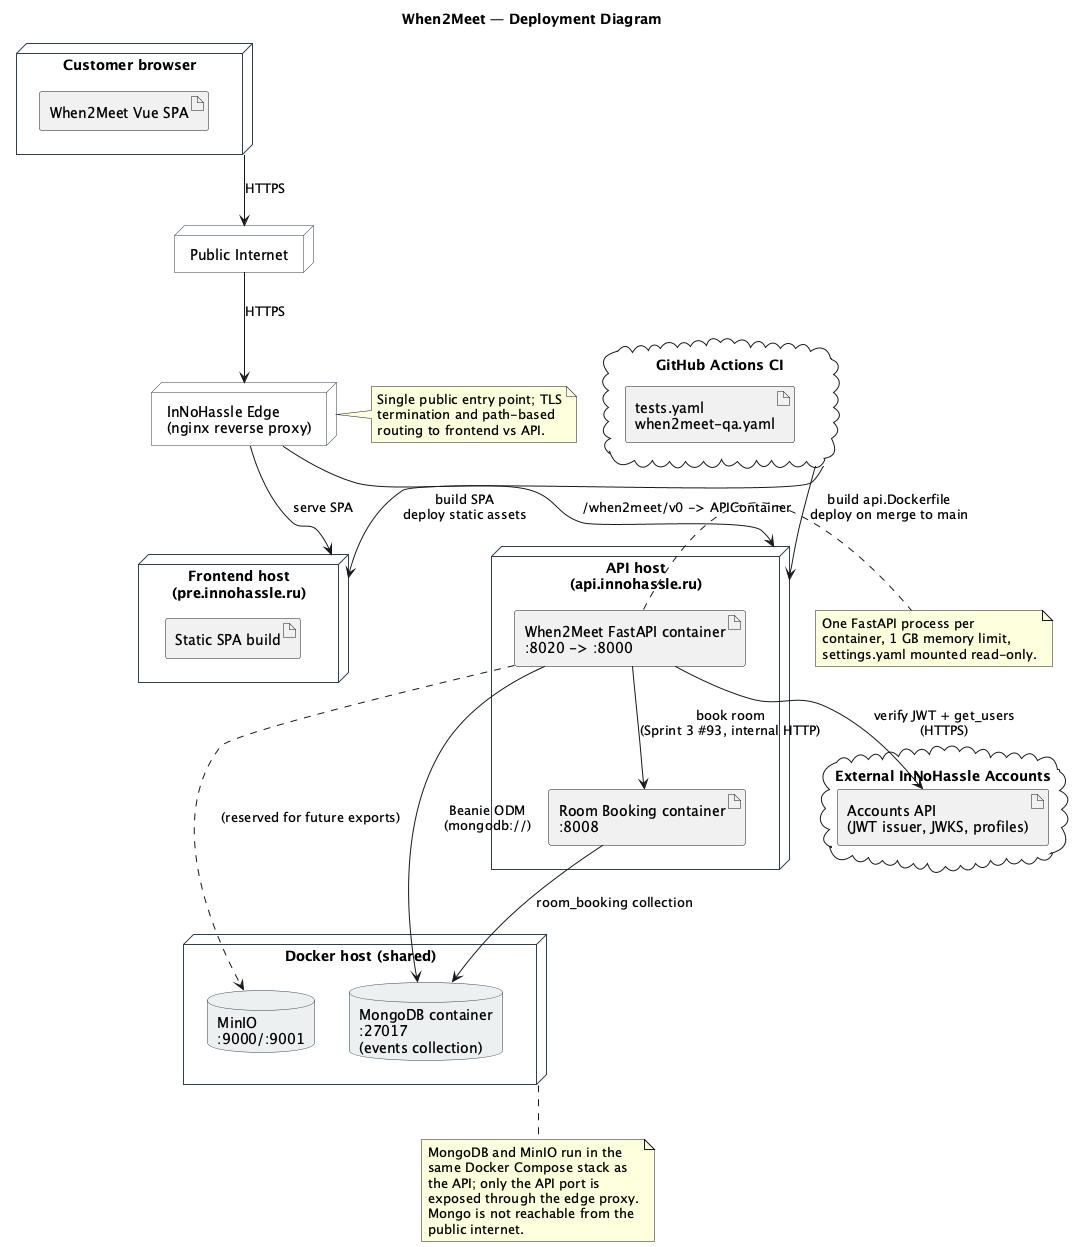
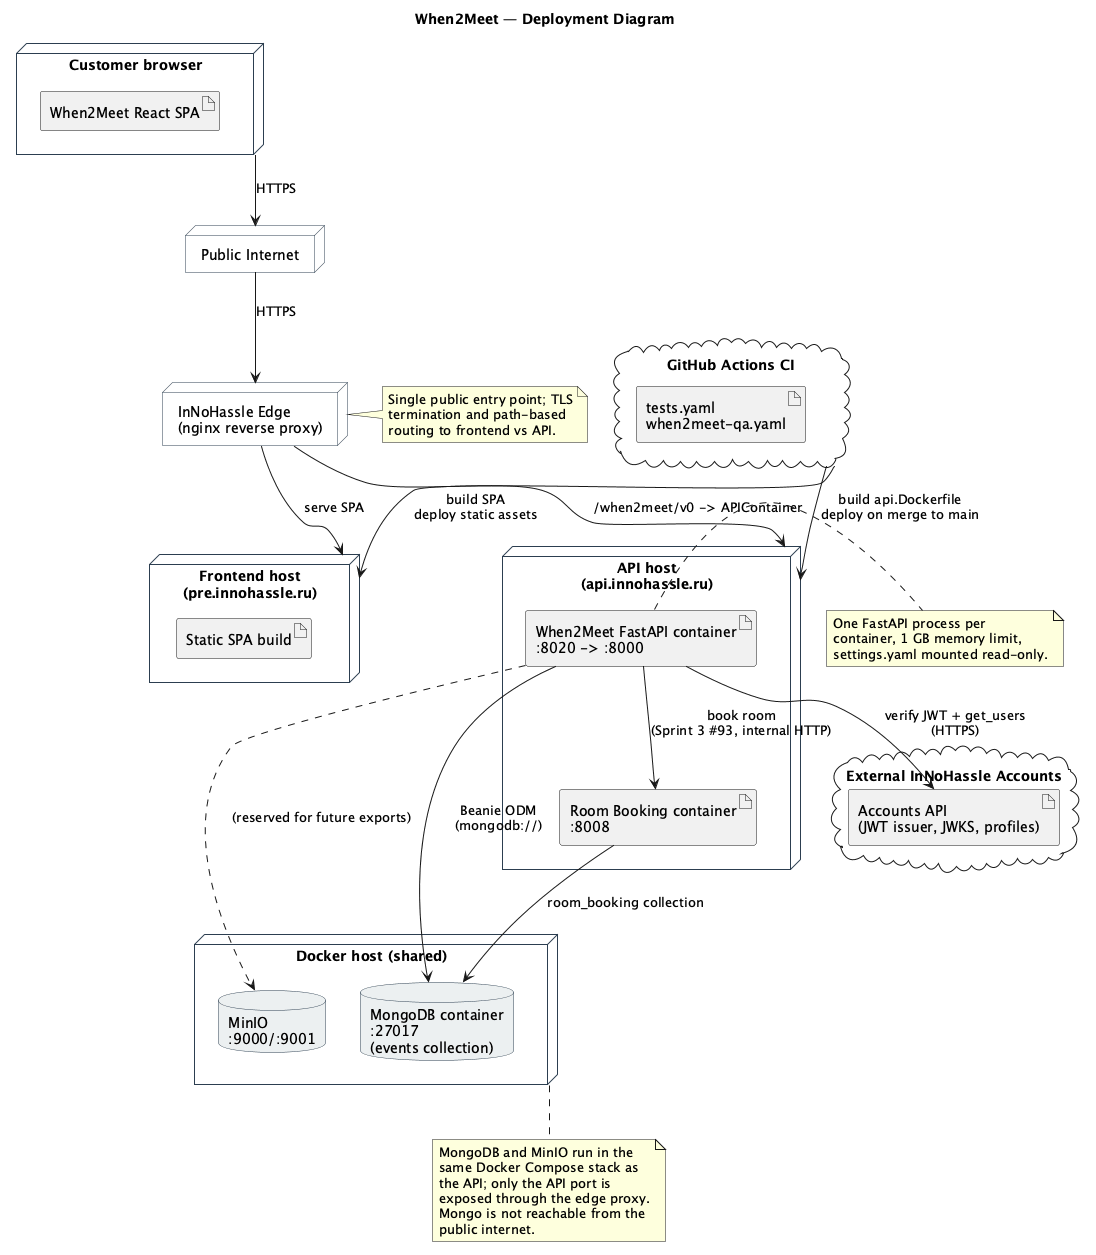
docs(when2meet): correct frontend stack to React in architecture
Update architecture README and PlantUML diagrams to describe the React SPA instead of Vue, and regenerate rendered SVG/PNG assets.

Changed region(s): [[0.0, 0.0305, 1.0, 1.0], [0.3677, 0.0, 0.6128, 0.0305]]

diff --git a/src/when2meet/docs/architecture/README.md b/src/when2meet/docs/architecture/README.md
@@ -15,7 +15,7 @@ When2Meet is an InNoHassle service that helps organizers find a meeting time by
 collecting participant availability on a shared grid and showing the
 intersection as a heatmap. The product is delivered as:
 
-- a **Vue single-page application** hosted at
+- a **React single-page application** hosted at
   `https://pre.innohassle.ru/when2meet`, and
 - a **FastAPI service** hosted at
   `https://api.innohassle.ru/when2meet/v0` that persists events and
@@ -39,7 +39,7 @@ contains the editable PlantUML source plus the rendered SVG and PNG.
 
 **What the diagram shows.** The main internal components of the When2Meet API
 (`App & Lifespan`, `Events Routes`, `Events Repository`, `Schemas & Validators`,
-`Mongo Document Models`, `Auth Dependency`), the Vue frontend, the external
+`Mongo Document Models`, `Auth Dependency`), the React frontend, the external
 systems the product interacts with (InNoHassle Accounts API, Room Booking API,
 Calendar API, MongoDB), and the communication paths between them — REST/HTTPS
 at the edge, Beanie ODM reads/writes to MongoDB, and JWT/JWKS verification plus
@@ -130,7 +130,7 @@ image on merge to `main`.
 domain (events) and modest load. A single FastAPI container behind the existing
 InNoHassle edge proxy reuses platform TLS termination, routing, and the shared
 MongoDB instance, which keeps operational cost and configuration surface area
-low. The Vue SPA is served as static assets from the same edge, so there is no
+low. The React SPA is served as static assets from the same edge, so there is no
 separate frontend runtime to operate. This matches the InNoHassle platform
 convention used by sibling services in the monorepo.
 
